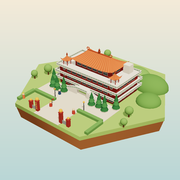
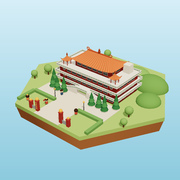
全真群島 v261025.21：桌面圖示換成粉藍色的海、重置島
重新渲染主畫面圖示（粉藍海、Q 版人物），圖示與 manifest 網址加版本參數避免快取；
重開機島改名為重置島。

Claude-Session: https://claude.ai/code/session_01GmcmD8V22uoDLYZhsy1cUR

diff --git a/islands/index.html b/islands/index.html
@@ -18,14 +18,14 @@
 <meta property="og:locale" content="zh_TW">
 <meta name="twitter:card" content="summary_large_image">
 <!-- 加到主畫面：iPhone 用 apple-touch-icon，Android 用 manifest -->
-<link rel="manifest" href="islands.webmanifest">
-<link rel="apple-touch-icon" href="icon-islands-180.png">
-<link rel="icon" type="image/png" sizes="192x192" href="icon-islands-192.png">
+<link rel="manifest" href="islands.webmanifest?v=2">
+<link rel="apple-touch-icon" href="icon-islands-180.png?v=2">
+<link rel="icon" type="image/png" sizes="192x192" href="icon-islands-192.png?v=2">
 <meta name="apple-mobile-web-app-capable" content="yes">
 <meta name="mobile-web-app-capable" content="yes">
 <meta name="apple-mobile-web-app-title" content="全真群島">
 <meta name="apple-mobile-web-app-status-bar-style" content="black-translucent">
-<meta name="theme-color" content="#EFE6D2" media="(prefers-color-scheme: light)">
+<meta name="theme-color" content="#E4F0F3" media="(prefers-color-scheme: light)">
 <meta name="theme-color" content="#172034" media="(prefers-color-scheme: dark)">
 <link rel="preconnect" href="https://fonts.googleapis.com">
 <link rel="preconnect" href="https://fonts.gstatic.com" crossorigin>
@@ -250,7 +250,7 @@
   <h1>全真群島<small>2027 全真社青・一座島一堂課</small></h1>
   <p class="count" id="brandCount"></p>
   <span class="status" id="status" data-state="backup" role="button" tabindex="0" title="點一下重新讀取"><i></i><span id="statusText">讀取資料中…</span></span>
-  <span class="ver">v261025.20</span>
+  <span class="ver">v261025.21</span>
 </div>
 
 <div class="mapctl">
@@ -330,7 +330,7 @@ const COURSES = [
   { key: 'c5', isle: '法會島', date: '2027-08-28', name: '新道親法會', sub: '志工陪伴體驗', mark: 'lotus', prog: [['全天', '新道親法會－志工陪伴體驗']],
     game: { name: '法會小天使', url: '../game/fahui-angel-25d.html?v=2', img: '../game/og-fahui-angel-25d.png',
       desc: '法會那天，我們一起當新朋友的小天使。先在遊戲裡練習：誰的頭上冒出需求泡泡，就過去陪陪他。' } },
-  { key: 'c6', isle: '重開機島', date: '2027-10-02', name: '人生重開機', sub: '人生卡關的時候，你會怎麼辦', mark: 'windmill', prog: [['古典瑜伽', '全真 鄔明清 講師'], ['觀點分享', '全真 何珈貞 講師'], ['下午活動', 'V·翻轉後的人生（天曉 林信宏 講師）']],
+  { key: 'c6', isle: '重置島', date: '2027-10-02', name: '人生重開機', sub: '人生卡關的時候，你會怎麼辦', mark: 'windmill', prog: [['古典瑜伽', '全真 鄔明清 講師'], ['觀點分享', '全真 何珈貞 講師'], ['下午活動', 'V·翻轉後的人生（天曉 林信宏 講師）']],
     pm: { key: 'p6', isle: '翻轉島', name: 'V·翻轉後的人生', emoji: '🎲', who: '天曉 林信宏 講師', mark: 'flipDice',
       desc: '一場歡樂滿點的互動遊戲，主題只有一個字：「讚」！在笑聲中破冰，發現夥伴眼中的你藏著好多閃光點。你想成為什麼樣的人，就用相對的付出與行動去實踐，一起 V 出翻轉後的人生。' } },
   { key: 'c7', isle: '秋遊島', date: '2027-10-30', name: '戶外聯誼', sub: '秋天的第二次出遊', mark: 'camp2', prog: [['全天', '戶外聯誼活動']] },

diff --git a/index.html b/index.html
@@ -1430,7 +1430,7 @@
         <a href="#flow">🔋 每日流程</a>
         <a href="#schedule">📅 年度企劃</a>
         <a href="#org">🤝 同行夥伴</a>
-        <a class="nav-islands" href="islands/?v=20">🏝 全真群島</a>
+        <a class="nav-islands" href="islands/?v=21">🏝 全真群島</a>
       </div>
       <button type="button" class="theme-btn" id="themeBtn" aria-label="切換暗色主題" aria-pressed="false" title="切換暗色／淺色主題"><svg class="moon" viewBox="0 0 24 24" fill="none" stroke="currentColor" stroke-width="2" stroke-linecap="round" stroke-linejoin="round" aria-hidden="true"><path d="M21 12.8A9 9 0 1 1 11.2 3a7 7 0 0 0 9.8 9.8z"/></svg><svg class="sun" viewBox="0 0 24 24" fill="none" stroke="currentColor" stroke-width="2" stroke-linecap="round" aria-hidden="true"><circle cx="12" cy="12" r="4.5"/><path d="M12 2v2.5M12 19.5V22M2 12h2.5M19.5 12H22M4.9 4.9l1.8 1.8M17.3 17.3l1.8 1.8M4.9 19.1l1.8-1.8M17.3 6.7l1.8-1.8"/></svg></button>
       <button class="nav-toggle" id="navToggle" aria-label="開啟選單" aria-expanded="false" aria-controls="navLinks" onclick="toggleNav()">
@@ -1533,7 +1533,7 @@
       </a>
 
       <!-- 全真群島：九座課程島串起一整年，跟著報名人數慢慢熱鬧起來 -->
-      <a class="xy-banner" href="islands/?v=20">
+      <a class="xy-banner" href="islands/?v=21">
         <img src="islands/og-islands.png" alt="全真群島：中央是全真道院，九座課程島用木橋串起 2027 一整年" loading="lazy">
         <div>
           <span class="tag">🏝 3D 互動地圖</span>

diff --git a/README.md b/README.md
@@ -38,7 +38,7 @@ https://steven4dev.github.io/yiguandao-2027-course/islands/（LINE 預覽圖 `is
 溫暖玩具模型風格的 3D 微縮群島，用 Three.js 繪製，不需要建置。
 
 - 中央：全真道院佛堂島（參考實景，地上四層），廣場小人偶＝已報名的夥伴；幹部穿該組顏色並帶職位配件，點人偶可以看是誰
-- 內圈：9 座課程島（好玩島、好賺島、春遊島、好愛島、法會島、重開機島、秋遊島、走走島、歡樂島），依 2027 年日期順時針排列，用木橋串起一整年；每座島都是蓋好的樣子，上課當天島上有人潮、上過後開滿花
+- 內圈：9 座課程島（好玩島、好賺島、春遊島、好愛島、法會島、重置島、秋遊島、走走島、歡樂島），依 2027 年日期順時針排列，用木橋串起一整年；每座島都是蓋好的樣子，上課當天島上有人潮、上過後開滿花
 - 下午副課島：藝術氣球、生命靈數、V·翻轉後的人生、蔬食料理王，放在對應課程島外側（料理島附講師作品照片：群島用 `islands/photos/` 的 200 像素小縮圖，點開看 `img/Vegetarian Cooking Champion/` 的大圖）
 - 加到手機桌面：圖示 `islands/icon-islands-180.png`（iPhone）、`icon-islands-192.png`／`icon-islands-512.png`（Android，寫在 `islands/islands.webmanifest`）
 - 導覽：右上角「導覽」是島嶼目錄；時光膠囊兩側與資訊卡上的 ‹ › 依一年的課程路線切換「前一座島／下一座島」（只換島、不動日期），電腦可用鍵盤 ← →

diff --git a/islands/CHANGELOG.md b/islands/CHANGELOG.md
@@ -3,6 +3,10 @@
 網頁左上角品牌卡最下面的淡色小字就是版本編號，格式跟褪下仙衣一樣是 `v年月日.當天第幾版`，例如 `v261025.01` 代表 2026/10/25 的第 1 版。
 打開網頁看到的編號和這裡最上面的一筆相同，就代表已經更新成功；如果還是舊編號，等幾分鐘再重新整理。
 
+## v261025.21
+- 桌面圖示換成粉藍色的海：重新渲染佛堂島（Q 版人物、淡天藍到粉藍的漸層背景）；圖示網址加上版本參數，手機才會重新抓新圖。啟動畫面與狀態列顏色改成淡天藍。
+- 重開機島改名為「重置島」。
+
 ## v261025.20
 - 每座課程島改用「○○島」命名：好玩島、好賺島、春遊島、好愛島、法會島、重開機島、秋遊島、走走島、歡樂島；下午島是 🎈 氣球島、🔮 靈數島、🎲 翻轉島、🥗 料理島。標籤只留島名，資訊卡和導覽目錄保留完整的課名與日期。
 - 白天不再霧濛濛：霧推到地平線附近、天空改成淡藍色、微縮鏡頭的模糊減半。
